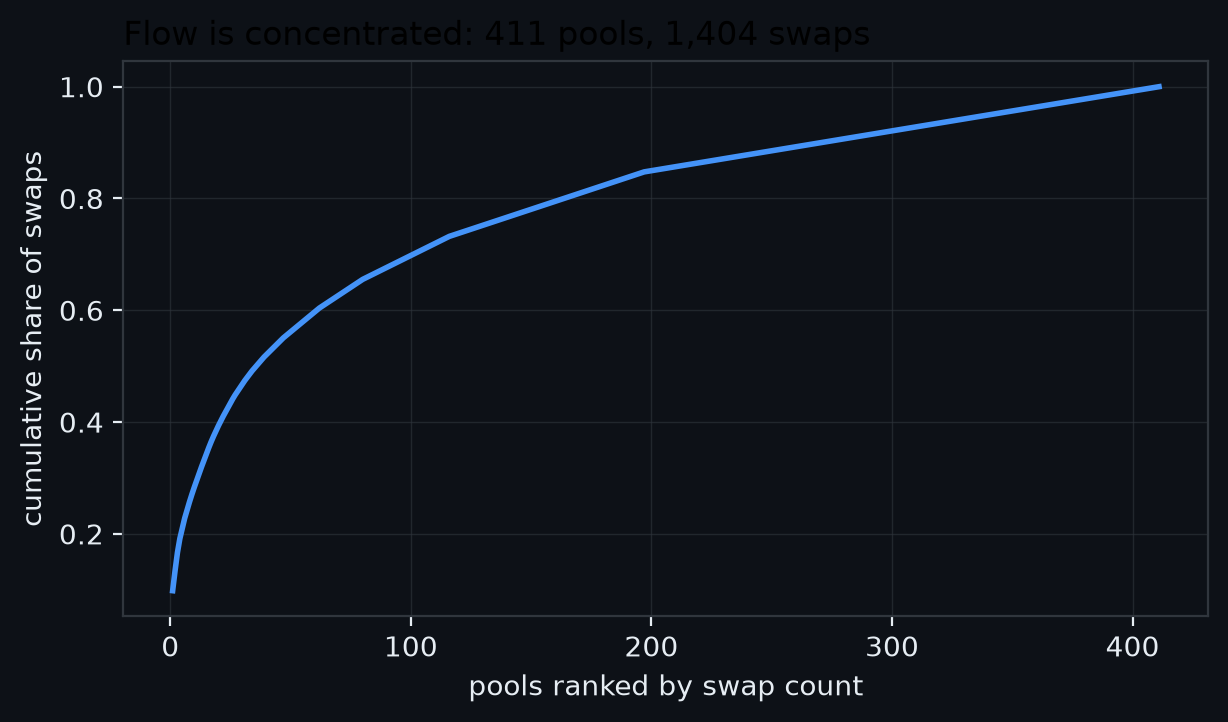
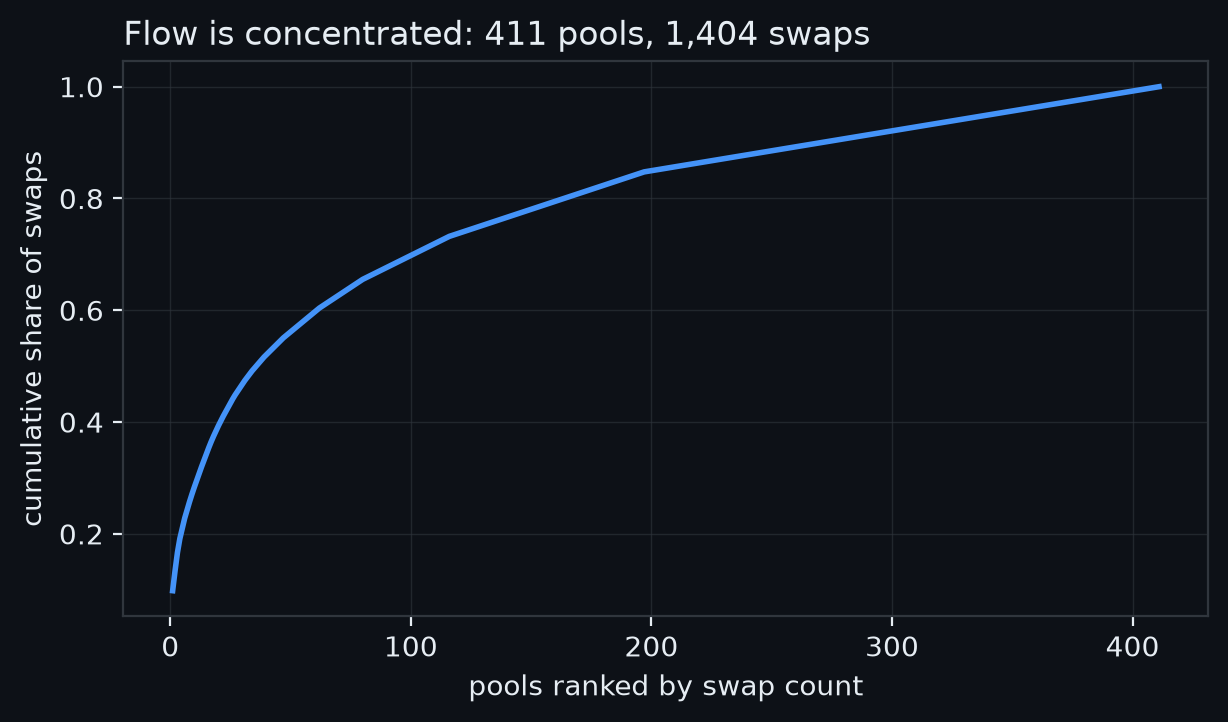
fix(figures): recolor all plot text to the theme before saving
Changed 22 file(s) [docs]

  - docs/research/figures/readme/capital-daily-dark.png
  - docs/research/figures/readme/capital-daily-light.png
  - docs/research/figures/readme/flow-dark.png
  - docs/research/figures/readme/flow-light.png
  - docs/research/figures/readme/guard-dark.png
  - docs/research/figures/readme/guard-light.png
  - docs/research/figures/readme/impact-dark.png
  - docs/research/figures/readme/impact-light.png
  - docs/research/figures/readme/path-dark.png
  - docs/research/figures/readme/path-light.png
  - docs/research/figures/readme/pools-dark.png
  - docs/research/figures/readme/pools-light.png
  - docs/research/figures/readme/sizedepth-dark.png
  - docs/research/figures/readme/sizedepth-light.png
  - docs/research/figures/readme/v3range-dark.png
  - docs/research/figures/readme/v3range-light.png
  - docs/research/figures/readme/visibility-dark.png
  - docs/research/figures/readme/visibility-light.png
  - scripts/figures/measured.py
  - scripts/figures/mechanism.py
  - ... (+2 more)

22 files changed, 20 insertions(+), 13 deletions(-)

Changed region(s): [[0.0928, 0.0305, 0.7117, 0.0609]]

diff --git a/scripts/figures/measured.py b/scripts/figures/measured.py
@@ -36,6 +36,13 @@ def _frame(th: dict, w: float = 7.0, h: float = 3.6):
     return fig, ax
 
 
+def save(fig, th: dict, path) -> None:
+    """Recolour every text element (titles set after framing, legends, annotations) to the theme."""
+    for t in fig.findobj(matplotlib.text.Text):
+        t.set_color(th["fg"])
+    fig.savefig(path, bbox_inches="tight", dpi=200, facecolor=th["bg"])
+
+
 def price_impact(th: dict, name: str) -> None:
     """Share of swaps whose own price impact exceeds a threshold: what a guard must absorb."""
     con = _con()
@@ -51,7 +58,7 @@ def price_impact(th: dict, name: str) -> None:
     ax.set_xlabel("victim price impact (swap size / input reserve)")
     ax.set_ylabel("share of swaps above")
     ax.set_title(f"Swaps above 1e-6 impact (n={n:,}); {dust:.0%} of all are dust below it", loc="left")
-    fig.savefig(OUT / f"impact-{name}.png", bbox_inches="tight", dpi=200)
+    save(fig, th, OUT / f"impact-{name}.png")
     plt.close(fig)
 
 
@@ -70,7 +77,7 @@ def pool_concentration(th: dict, name: str) -> None:
     ax.set_xlabel("pools ranked by swap count")
     ax.set_ylabel("cumulative share of swaps")
     ax.set_title(f"Flow is concentrated: {len(counts)} pools, {total:,} swaps", loc="left")
-    fig.savefig(OUT / f"pools-{name}.png", bbox_inches="tight", dpi=200)
+    save(fig, th, OUT / f"pools-{name}.png")
     plt.close(fig)
 
 
@@ -89,7 +96,7 @@ def block_flow(th: dict, name: str) -> None:
     ax.set_ylabel("V2 swaps in block")
     ax.set_title(f"Swaps per block; red = same wallet hits one pool twice ({len(rep)} of "
                  f"{len(rows)} blocks)", loc="left", fontsize=10)
-    fig.savefig(OUT / f"flow-{name}.png", bbox_inches="tight", dpi=200)
+    save(fig, th, OUT / f"flow-{name}.png")
     plt.close(fig)
 
 
@@ -110,7 +117,7 @@ def size_depth(th: dict, name: str) -> None:
     ax.set_xlabel("pool depth, input reserve (base units)")
     ax.set_ylabel("swap size (base units)")
     ax.set_title(f"Where swaps sit in size-depth space (n={len(rows):,})", loc="left")
-    fig.savefig(OUT / f"sizedepth-{name}.png", bbox_inches="tight", dpi=200)
+    save(fig, th, OUT / f"sizedepth-{name}.png")
     plt.close(fig)
 
 

diff --git a/scripts/figures/readme.py b/scripts/figures/readme.py
@@ -20,7 +20,7 @@ from eth_mev.config import DATA_DIR, REPO  # noqa: E402
 from eth_mev.measure.exposure.v2.mesp import _profit_buy  # noqa: E402
 from eth_mev.onchain.decode.v2.swaps import Swap  # noqa: E402
 
-from .measured import measured_figures  # noqa: E402
+from .measured import measured_figures, save  # noqa: E402
 from .mechanism import sandwich_path, v3_vs_v2  # noqa: E402
 from .visibility import guard_ecdf, visibility  # noqa: E402
 
@@ -71,7 +71,7 @@ def exposure_curve(th: dict, name: str) -> None:
     for t in leg.get_texts():
         t.set_color(th["fg"])
     _style(ax, fig, th)
-    fig.savefig(OUT / f"exposure-{name}.png", bbox_inches="tight", dpi=200)
+    save(fig, th, OUT / f"exposure-{name}.png")
     plt.close(fig)
 
 
@@ -136,7 +136,7 @@ def capital_daily(th: dict, name: str) -> None:
     ax.set_ylabel("expected daily profit (ETH)")
     ax.set_title("Realistic daily EV saturates past ~10 ETH of front")
     _style(ax, fig, th)
-    fig.savefig(OUT / f"capital-daily-{name}.png", bbox_inches="tight", dpi=200)
+    save(fig, th, OUT / f"capital-daily-{name}.png")
     plt.close(fig)
 
 

diff --git a/scripts/figures/mechanism.py b/scripts/figures/mechanism.py
@@ -9,7 +9,7 @@ import matplotlib
 matplotlib.use("Agg")
 import matplotlib.pyplot as plt  # noqa: E402
 
-from .measured import OUT, _con, _frame  # noqa: E402
+from .measured import OUT, _con, _frame, save  # noqa: E402
 
 
 def _buy(r_in: float, r_out: float, a: float, fee: float = 0.003) -> tuple[float, float, float]:
@@ -43,7 +43,7 @@ def sandwich_path(th: dict, name: str) -> None:
     ax.set_xticks(range(4), labels)
     ax.set_ylabel("price of the bought token vs start (bp)")
     ax.set_title("Illustration: one sandwich on a recorded pool, front = victim size", loc="left")
-    fig.savefig(OUT / f"path-{name}.png", bbox_inches="tight", dpi=200)
+    save(fig, th, OUT / f"path-{name}.png")
     plt.close(fig)
 
 
@@ -67,5 +67,5 @@ def v3_vs_v2(th: dict, name: str) -> None:
     ax.legend(frameon=False, labelcolor=th["fg"], fontsize=8)
     ax.set_title("Equal capital: narrower range, less impact. Dot = range edge",
                  loc="left", fontsize=10)
-    fig.savefig(OUT / f"v3range-{name}.png", bbox_inches="tight", dpi=200)
+    save(fig, th, OUT / f"v3range-{name}.png")
     plt.close(fig)

diff --git a/scripts/figures/visibility.py b/scripts/figures/visibility.py
@@ -15,7 +15,7 @@ import matplotlib.pyplot as plt  # noqa: E402
 
 from eth_mev.config import DATA_DIR  # noqa: E402
 
-from .measured import OUT, _con, _frame  # noqa: E402
+from .measured import OUT, _con, _frame, save  # noqa: E402
 
 
 def _slacks() -> list[float]:
@@ -49,7 +49,7 @@ def guard_ecdf(th: dict, name: str) -> None:
     ax.set_ylabel("share of decodable V3 swaps")
     ax.set_title(f"Half of all decodable guards leave under {q[0.5] * 100:.2f}% of room (n={n:,})",
                  loc="left", fontsize=10)
-    fig.savefig(OUT / f"guard-{name}.png", bbox_inches="tight", dpi=200)
+    save(fig, th, OUT / f"guard-{name}.png")
     plt.close(fig)
 
 
@@ -74,5 +74,5 @@ def visibility(th: dict, name: str) -> None:
     ax.set_xlim(0, 100)
     ax.set_xlabel("share of class (%), Wilson 95% interval")
     ax.set_title("How visible and how loose guards are", loc="left")
-    fig.savefig(OUT / f"visibility-{name}.png", bbox_inches="tight", dpi=200)
+    save(fig, th, OUT / f"visibility-{name}.png")
     plt.close(fig)
